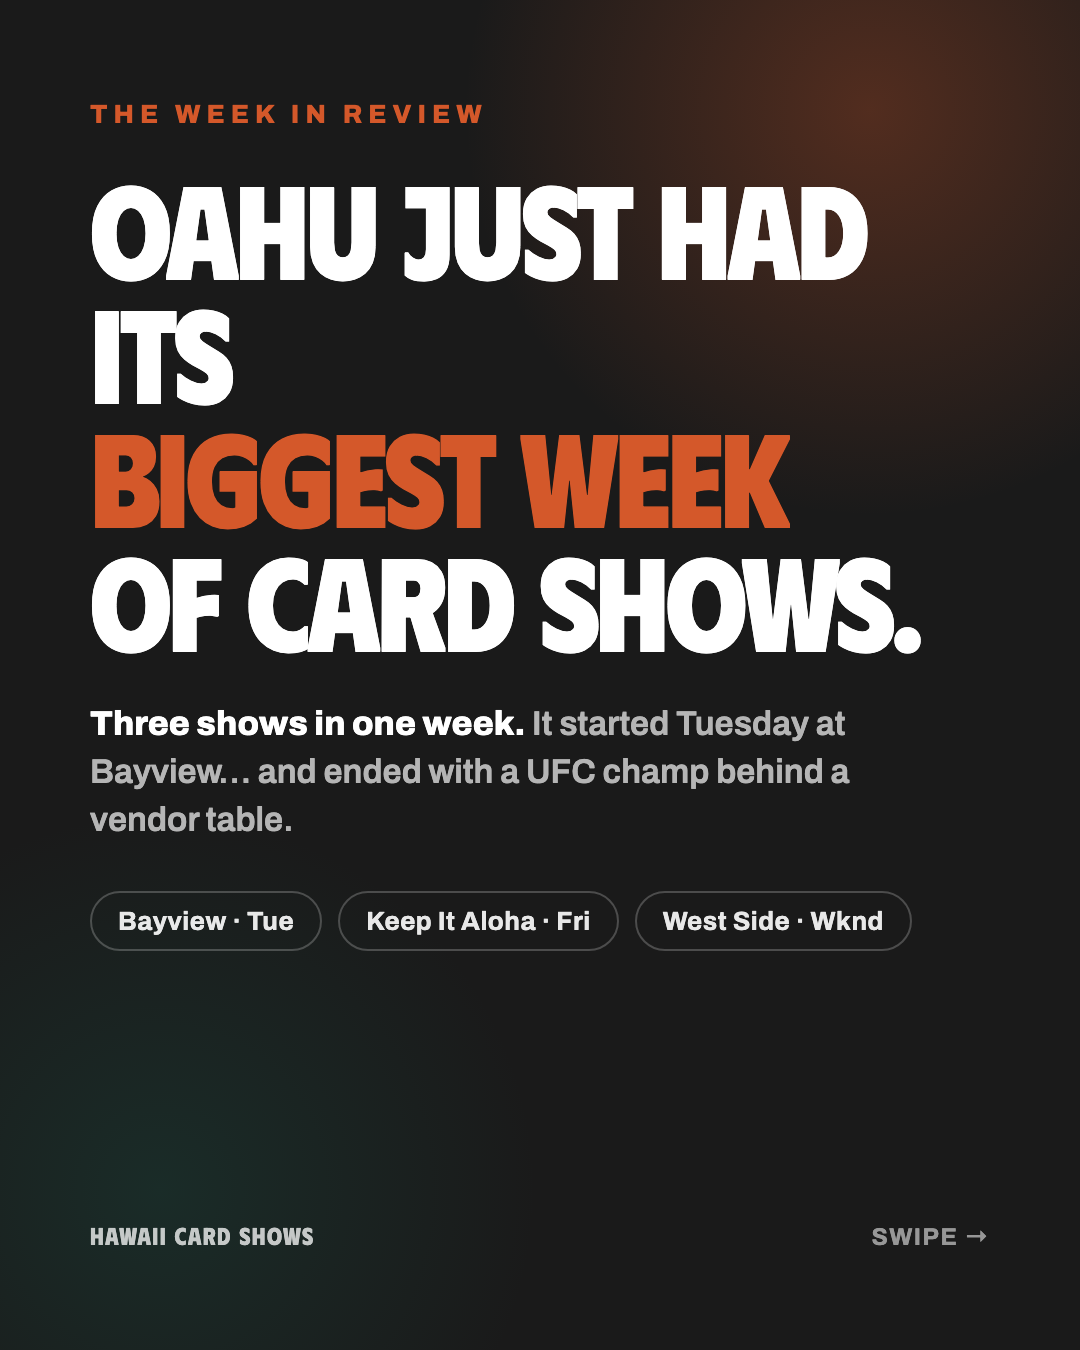
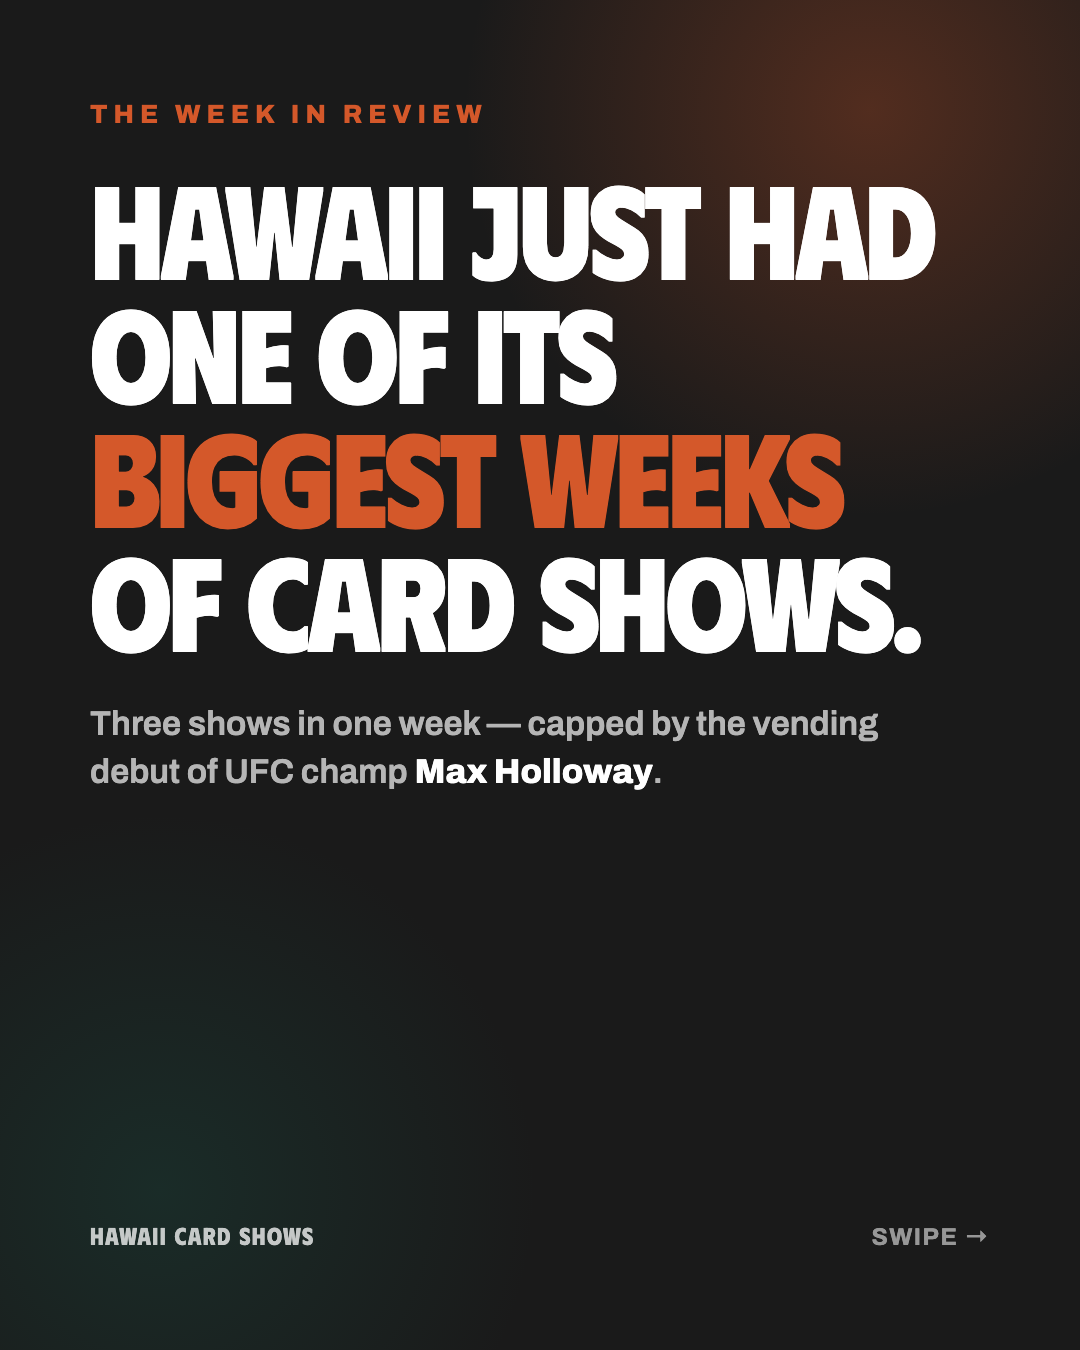
Carousel rework: "Hawaii's biggest week capped by Max Holloway" (6 slides)
- Cover reframed: "Hawaii just had one of its biggest weeks… capped by Max
  Holloway's vending debut" (was Oahu/pills).
- NEW slide 2 "The Lineup": Bayview (Tue) → Keep It Aloha (Fri) → West Side
  Card Show (Sat–Sun), color-coded with flow arrows.
- Recap slides refined to Tyler's gist: Bayview = lively Tuesday night market /
  food trucks / golf course; KIA = Friday pau-hana under the lights in town;
  West Side = banger in the heart of the West Side, 100+/9,000+, fixed @rocket_relics.
- Closer: "the whole energy of Hawaii's card scene, captured in three shows."
- Caption updated to match. Prior 5-slide render preserved in _old/.

diff --git a/recaps/social/2026-06-09-big-week-carousel/src/02-lineup.html b/recaps/social/2026-06-09-big-week-carousel/src/02-lineup.html
@@ -1,0 +1,61 @@
+<!DOCTYPE html>
+<html lang="en">
+<head>
+<meta charset="UTF-8">
+<title>Slide 2 — The Lineup</title>
+<link rel="preconnect" href="https://fonts.googleapis.com">
+<link rel="preconnect" href="https://fonts.gstatic.com" crossorigin>
+<link href="https://fonts.googleapis.com/css2?family=Archivo:wght@500;600;700;800&family=Phudu:wght@600;700;800&display=swap" rel="stylesheet">
+<style>
+  * { margin: 0; padding: 0; box-sizing: border-box; }
+  html, body { width: 1080px; height: 1350px; overflow: hidden; }
+  body {
+    background: #1a1a1a; color: #ffffff; font-family: 'Archivo', sans-serif;
+    position: relative; padding: 100px 90px; display: flex; flex-direction: column;
+  }
+  body::before { content:''; position:absolute; top:-280px; right:-200px; width:820px; height:820px; background: radial-gradient(circle, rgba(212,88,42,0.26), transparent 70%); pointer-events:none; }
+  body::after  { content:''; position:absolute; bottom:-220px; left:-220px; width:760px; height:760px; background: radial-gradient(circle, rgba(124,58,237,0.20), transparent 70%); pointer-events:none; }
+  .inner { position: relative; z-index: 1; height: 100%; display: flex; flex-direction: column; }
+  .eyebrow { font-family:'Archivo',sans-serif; font-weight:800; font-size:26px; letter-spacing:6px; color:#d4582a; text-transform:uppercase; margin-bottom:18px; }
+  h1 { font-family:'Phudu',sans-serif; font-weight:800; font-size:104px; line-height:0.95; letter-spacing:-3px; margin-bottom:56px; }
+  .shows { display:flex; flex-direction:column; gap:10px; }
+  .show { display:flex; align-items:center; gap:30px; background:rgba(255,255,255,0.06); border:2px solid rgba(255,255,255,0.12); border-left-width:10px; border-radius:22px; padding:34px 38px; }
+  .show .day { font-family:'Phudu',sans-serif; font-weight:800; font-size:34px; letter-spacing:1px; min-width:180px; }
+  .show .name { font-family:'Phudu',sans-serif; font-weight:800; font-size:50px; line-height:1.0; color:#ffffff; }
+  .show .place { font-family:'Archivo',sans-serif; font-weight:600; font-size:28px; color:rgba(255,255,255,0.6); margin-top:6px; }
+  .arrow { text-align:center; font-size:40px; color:rgba(255,255,255,0.35); margin:6px 0; }
+  .s-bayview { border-left-color:#a78bfa; } .s-bayview .day { color:#a78bfa; }
+  .s-kia     { border-left-color:#2cdfb6; } .s-kia .day     { color:#2cdfb6; }
+  .s-west    { border-left-color:#f0714a; } .s-west .day    { color:#f0714a; }
+  .footer-row { display:flex; justify-content:space-between; align-items:center; margin-top:auto; }
+  .brand { font-family:'Phudu',sans-serif; font-weight:700; font-size:24px; letter-spacing:1.5px; color:rgba(255,255,255,0.75); text-transform:uppercase; }
+  .swipe { font-family:'Archivo',sans-serif; font-weight:700; font-size:24px; color:rgba(255,255,255,0.55); letter-spacing:1.5px; text-transform:uppercase; }
+</style>
+</head>
+<body>
+  <div class="inner">
+    <div class="eyebrow">One Week · Three Shows</div>
+    <h1>The Lineup</h1>
+    <div class="shows">
+      <div class="show s-bayview">
+        <div class="day">TUE</div>
+        <div><div class="name">Bayview Night Market</div><div class="place">Kaneohe · East Side</div></div>
+      </div>
+      <div class="arrow">↓</div>
+      <div class="show s-kia">
+        <div class="day">FRI</div>
+        <div><div class="name">Keep It Aloha #2</div><div class="place">SALT Kaka&rsquo;ako · Town</div></div>
+      </div>
+      <div class="arrow">↓</div>
+      <div class="show s-west">
+        <div class="day">SAT&ndash;SUN</div>
+        <div><div class="name">West Side Card Show III</div><div class="place">Ewa Beach · West Side</div></div>
+      </div>
+    </div>
+    <div class="footer-row">
+      <div class="brand">Hawaii Card Shows</div>
+      <div class="swipe">Swipe →</div>
+    </div>
+  </div>
+</body>
+</html>

diff --git a/recaps/social/2026-06-09-big-week-carousel/src/05-west-side.html b/recaps/social/2026-06-09-big-week-carousel/src/05-west-side.html
@@ -45,11 +45,11 @@
     <div class="tag">The Finale · Show 3 of 3</div>
     <div class="eyebrow">Sat–Sun · June 6–7 · Ewa Beach</div>
     <h1>West Side<br>Card Show III</h1>
-    <p class="lead">Then the week exploded. <strong>Max Holloway</strong> made his vendor debut, lines ran out the door to the street, and the vibes were immaculate. A UFC champ talking cards with the West Side &mdash; you couldn&rsquo;t script it better.</p>
+    <p class="lead">A banger of a show in the heart of the West Side. <strong>Max Holloway&rsquo;s vendor debut</strong>, 100+ vendors, and <strong>9,000+ collectors</strong> over two days &mdash; lines out the door to the street.</p>
     <div class="details">
       <div class="details-row"><div class="details-icon">📍</div>Kroc Center, Ewa Beach</div>
       <div class="details-row"><div class="details-icon">🥊</div>Max Holloway&rsquo;s vendor debut</div>
-      <div class="details-row"><div class="details-icon">🎯</div>Host: @rocketrelics</div>
+      <div class="details-row"><div class="details-icon">🎯</div>Host: @rocket_relics</div>
     </div>
     <div class="footer-row">
       <div class="brand">Hawaii Card Shows</div>

diff --git a/recaps/social/2026-06-09-big-week-carousel/src/01-cover.html b/recaps/social/2026-06-09-big-week-carousel/src/01-cover.html
@@ -92,13 +92,8 @@
   <div class="inner">
     <div>
       <div class="eyebrow">The Week in Review</div>
-      <h1>Oahu just had its<br><em>biggest week</em><br>of card shows.</h1>
-      <p class="sub"><strong>Three shows in one week.</strong> It started Tuesday at Bayview&hellip; and ended with a UFC champ behind a vendor table.</p>
-      <div class="pill-row">
-        <div class="pill">Bayview · Tue</div>
-        <div class="pill">Keep It Aloha · Fri</div>
-        <div class="pill">West Side · Wknd</div>
-      </div>
+      <h1>Hawaii just had one of its<br><em>biggest weeks</em><br>of card shows.</h1>
+      <p class="sub">Three shows in one week &mdash; capped by the vending debut of UFC champ <strong>Max Holloway</strong>.</p>
     </div>
     <div class="footer-row">
       <div class="brand">Hawaii Card Shows</div>

diff --git a/recaps/social/2026-06-09-big-week-carousel/src/03-bayview.html b/recaps/social/2026-06-09-big-week-carousel/src/03-bayview.html
@@ -45,7 +45,7 @@
     <div class="tag">The Kickoff · Show 1 of 3</div>
     <div class="eyebrow">Tue · June 2 · Kaneohe</div>
     <h1>Bayview<br>Night Market</h1>
-    <p class="lead">The big week started on the East Side. PKMN Collective&rsquo;s Tuesday trade night at Bayview Golf Course set the tone &mdash; Pokemon, One Piece, sports, slabs, and <strong>ono food</strong> under the lights.</p>
+    <p class="lead">A lively Tuesday night market to kick things off &mdash; casual deals, <strong>food trucks</strong>, and ono grinds at a golf course out on the East Side.</p>
     <div class="details">
       <div class="details-row"><div class="details-icon">📍</div>Bayview Golf Course, Kaneohe</div>
       <div class="details-row"><div class="details-icon">🗓</div>Every 1st &amp; 3rd Tuesday</div>

diff --git a/recaps/social/2026-06-09-big-week-carousel/src/04-keep-it-aloha.html b/recaps/social/2026-06-09-big-week-carousel/src/04-keep-it-aloha.html
@@ -46,7 +46,7 @@
     <div class="tag">The Build · Show 2 of 3</div>
     <div class="eyebrow">Fri · June 5 · SALT Kaka&rsquo;ako</div>
     <h1>Keep It Aloha<br><em>#2</em></h1>
-    <p class="lead">By Friday the week was rolling. <strong>70+ vendors, 1,500+ collectors</strong> &mdash; free for everyone, all on a single pau-hana Friday night.</p>
+    <p class="lead">Friday-night pau hana vibes under the lights, in the heart of a buzzing Kaka&rsquo;ako. <strong>70+ vendors, 1,500+ collectors</strong> &mdash; free for everyone.</p>
     <div class="details">
       <div class="details-row"><div class="details-icon">📍</div>SALT at Our Kaka&rsquo;ako</div>
       <div class="details-row"><div class="details-icon">🎟</div>Free for the public · all ages</div>

diff --git a/recaps/social/2026-06-09-big-week-carousel/src/06-closer.html b/recaps/social/2026-06-09-big-week-carousel/src/06-closer.html
@@ -41,7 +41,7 @@
   <div class="inner">
     <div class="eyebrow">The Week in Hawaii Cards</div>
     <h1>Three shows.<br>One week.<br>One <em>community.</em></h1>
-    <p class="lead">From Ewa Beach to Kaka&rsquo;ako to Kaneohe &mdash; the Hawaii hobby is on fire. <strong>Show up. Support the organizers.</strong> <span class="hooo">HOOO! 🤙</span></p>
+    <p class="lead">In one week, the whole energy of Hawaii&rsquo;s card scene &mdash; captured in three shows. <strong>Show up. Support the organizers.</strong> <span class="hooo">HOOO! 🤙</span></p>
     <div class="cta">
       <div class="cta-eyebrow">Full Calendar + Recaps</div>
       <div class="cta-headline">Every Hawaii<br>card show, in<br>one place.</div>
